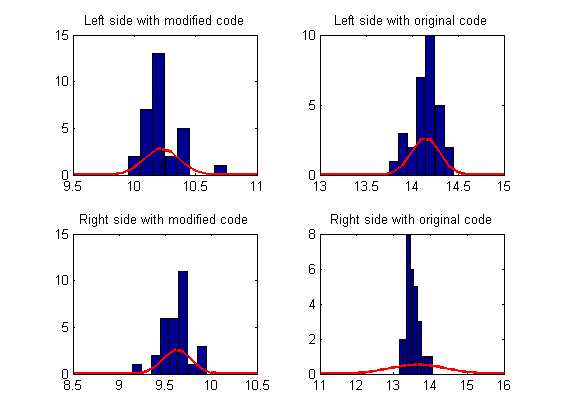
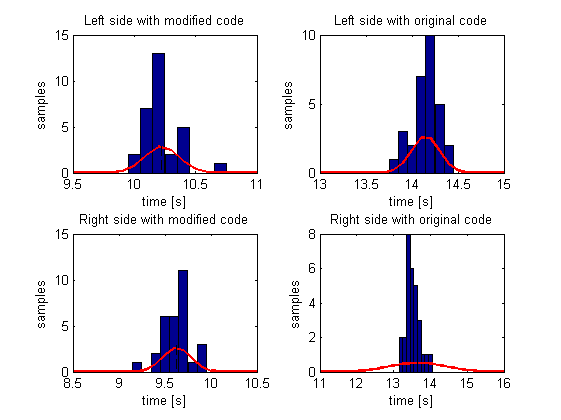
changed graph for christian

diff --git a/Arkiv/stats.m b/Arkiv/stats.m
@@ -23,6 +23,8 @@ plot(x,y,'LineWidth',2,'Color','r')
 title('Left side with modified code')
 line([pd.mu pd.mu],[0 3],'LineStyle','--','Color','k');
 xlim([9.5 11])
+xlabel('time [s]')
+ylabel('samples')
 hold off
 
 %% Left side run with original code
@@ -43,6 +45,8 @@ plot(x,y,'LineWidth',2,'Color','r')
 line([pd.mu pd.mu],[0 3],'LineStyle','--','Color','k');
 title('Left side with original code')
 xlim([13 15])
+xlabel('time [s]')
+ylabel('samples')
 hold off
 
 %% Right side run with modified code
@@ -63,6 +67,8 @@ plot(x,y,'LineWidth',2,'Color','r')
 line([pd.mu pd.mu],[0 3],'LineStyle','--','Color','k');
 title('Right side with modified code')
 xlim([8.5 10.5])
+xlabel('time [s]')
+ylabel('samples')
 hold off
 %% Right side run with original code
 clc
@@ -82,4 +88,6 @@ plot(x,y,'LineWidth',2,'Color','r')
 line([pd.mu pd.mu],[0 3],'LineStyle','--','Color','k');
 title('Right side with original code')
 xlim([11 16])
+xlabel('time [s]')
+ylabel('samples')
 hold off
